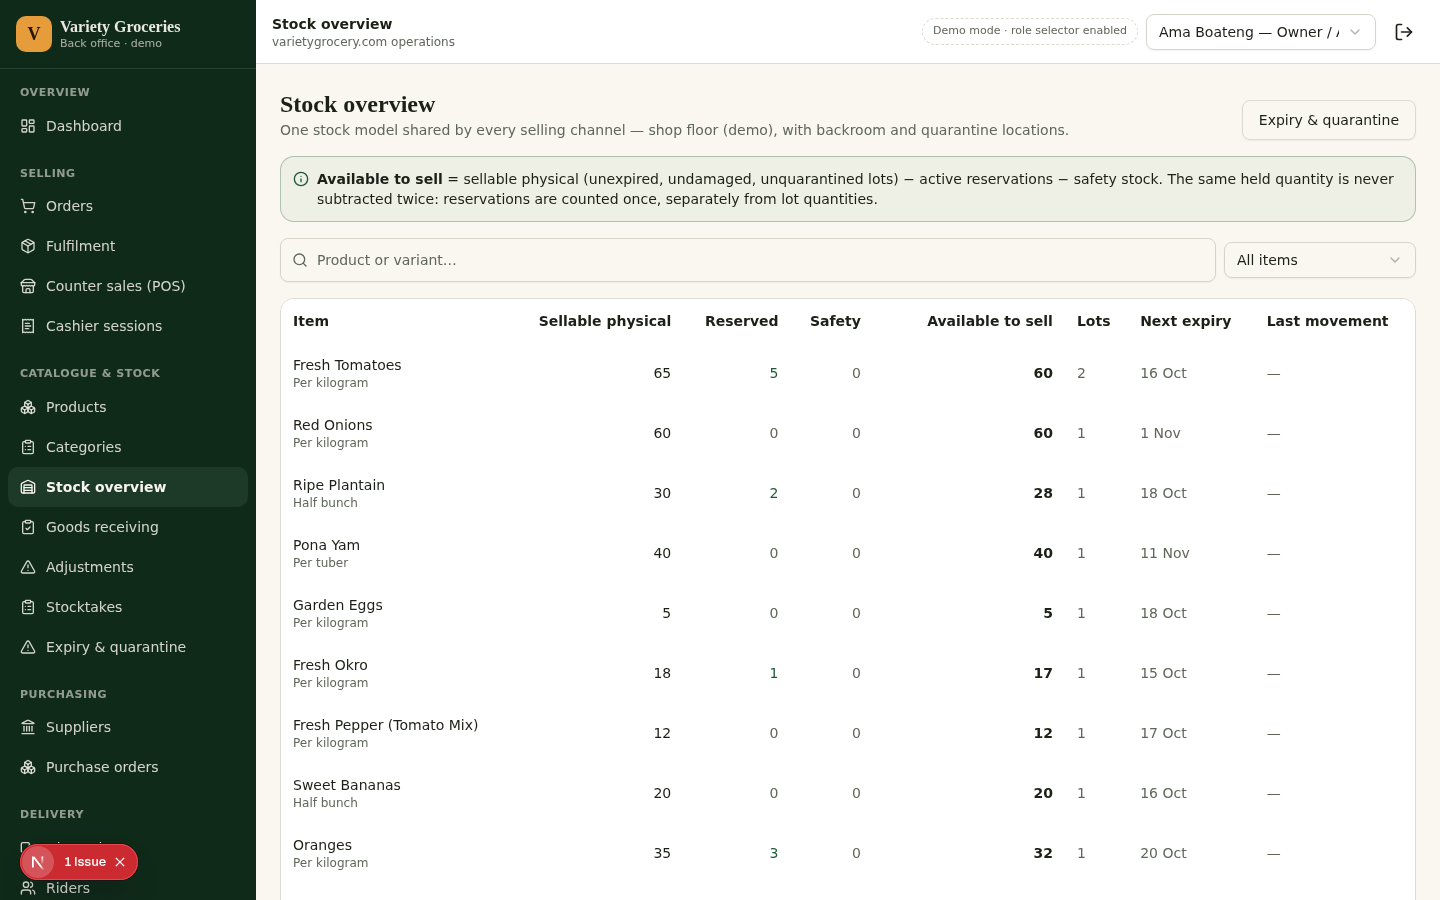
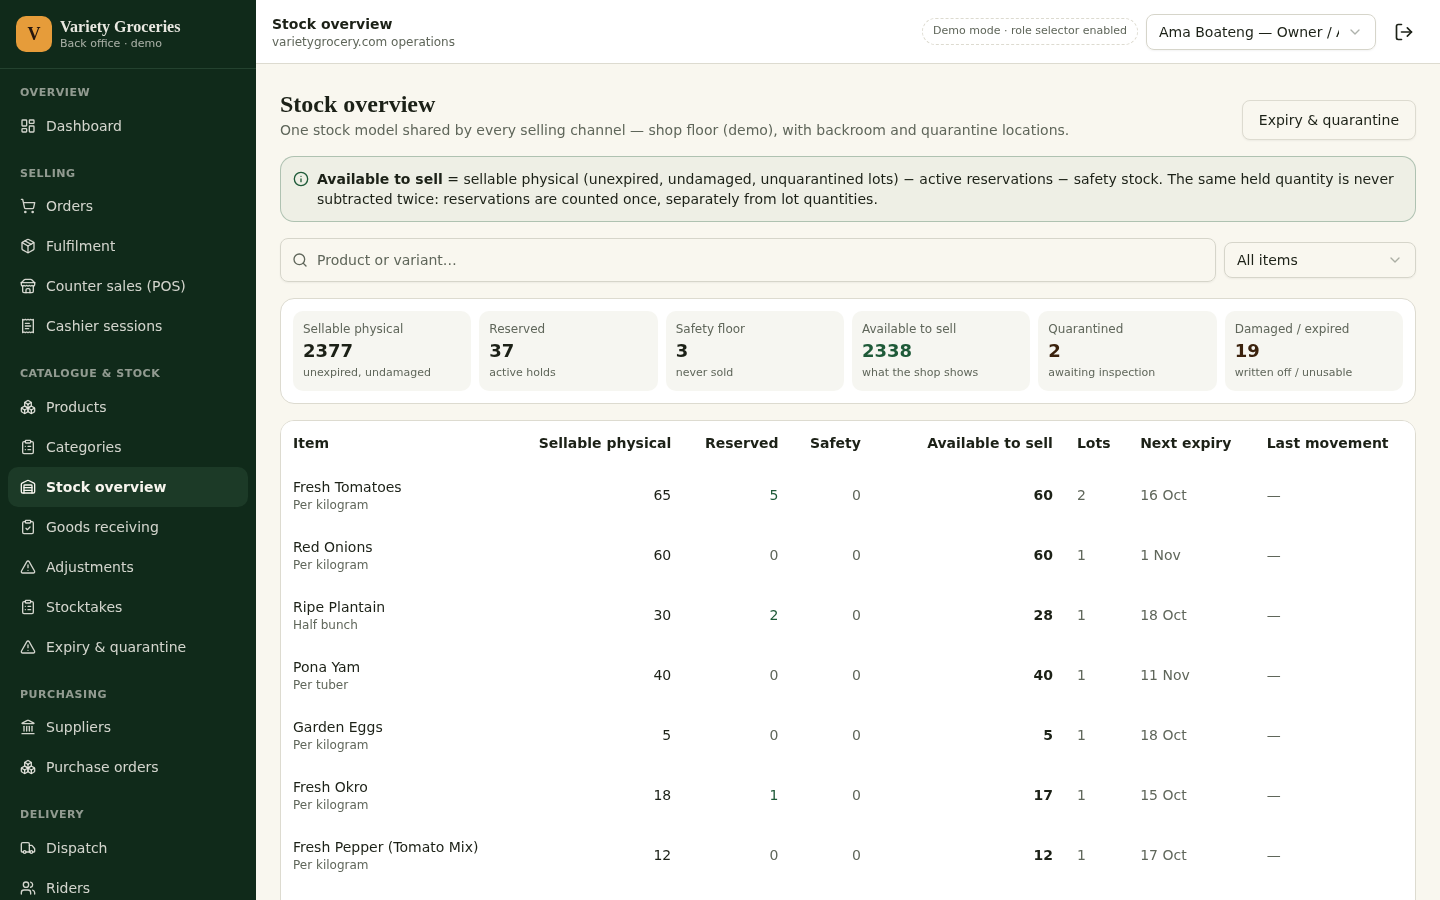
docs: ZAI frontend continuation handoff — audit, routes, verification, known issues; evidence pack (desktop/mobile/tablet) against production build

diff --git a/docs/ZAI_FRONTEND_HANDOFF.md b/docs/ZAI_FRONTEND_HANDOFF.md
@@ -1,0 +1,134 @@
+# ZAI Frontend Handoff — Continuation & Completion Wave
+
+**Wave**: frontend product quality, UX/UI, workflow completeness, responsiveness, API-readiness
+**Base**: `origin/main` @ `94d480a` (backend reservation / checkout-orders / payments / refunds authorities merged)
+**Scope rule honoured**: frontend work only — no backend business rules were changed; every mock
+engine mutation this wave is view-shaping (queue composition, card fields, summary totals), never
+a new state transition or a changed invariant.
+
+## 1. Branch
+
+`feat/zai-frontend-continuation-20261012` (pushed; PR into `main` — **not merged** by the frontend wave)
+
+## 2. Final commit SHA
+
+See `git log` on the branch — final commit is the responsive-overflow fix + documentation commit
+(`fix(responsive): checkout grid children min-w-0 …`). Run `git rev-parse HEAD` on the branch for
+the exact SHA at review time (9 wave commits total).
+
+## 3. Routes changed
+
+| Route | Change |
+|---|---|
+| `/` | Shopping-assistant entry band (compact, honest demo label) |
+| `/categories` | **NEW** browse-all index (fixes the previous 404) |
+| `/assistant` | **NEW** customer shopping assistant: catalogue-grounded Q&A with evidence + suggestions, budget basket, add-to-cart |
+| `/checkout` | 360px horizontal overflow fixed (grid children `min-w-0`) |
+| `/admin` | Queue-aligned actionable tiles (ready-to-pick / picking / refunds-to-approve added) |
+| `/admin/orders` | Mobile card list alternate (md and below) |
+| `/admin/fulfilment` | **Rebuilt as the priority workspace** — queues: awaiting-confirmation / ready-to-pick / picking / exceptions / packed-handover / collection (+ conditional ready-to-pack when the backend exposes a picked state); picker, started-at, progress, allocated-vs-ordered, shortage, substitution badges, FEFO lots with expiry, packing checklist, note dialog with line attachment, handover boundary notice (“packing has not deducted stock”), event trails, backend-driven `allowedActions` |
+| `/admin/dispatch` | **Rebuilt as a control centre** — main queue (ready-to-dispatch with slot/phone/COD, active jobs, completed) + fleet sideboard (rider availability/load/remittance, providers with honest “Not connected”); reassignment for failed/rescheduled jobs; `?order=<id>` deep link opens the assignment dialog (used by fulfilment handover) |
+| `/admin/pos` | Quick-add tiles (8 frequent items with live availability) shown while search is empty |
+| `/admin/inventory` | Stock-state summary strip (sellable / reserved / safety / available / quarantined / damaged-expired) + mobile card list |
+| `/admin/payments` | Mobile card list |
+| `/admin/ai` | Human-in-the-loop boundary notice; every suggestion card renders the explicit **Proposed next action** |
+| Admin shell (all admin routes) | Exact-match active nav — nested inventory routes light up exactly one item; top-bar title always matches the active route; sidebar short-screen padding tightened |
+
+## 4. Components added
+
+- `src/features/staff/fulfilment-views.tsx` — `PickerLineTable`, `PickingMeta`, `PackingChecklist`,
+  `QueueCardHeader`, `HandoverNotice`, `NoteDialog`, `WorkflowStrip`, `EventTrail`, `allows()`
+- `src/app/(storefront)/assistant/page.tsx` — customer assistant experience
+- `src/app/(storefront)/categories/page.tsx` — categories index
+- `scripts/responsive-sweep.mjs`, `scripts/audit-sweep.mjs` — QA tooling
+- `scripts/frontend-continuation-regressions.test.ts` — regression suite
+
+## 5. UX issues fixed
+
+1. Admin nav double-active state on nested routes + wrong top-bar title (exact-match logic).
+2. Fulfilment queue semantics mixed confirmed+picking in one queue while duplicating picking in
+   another; no exceptions/shortage queue; no picker/progress/allocated/shortage data.
+3. No handover semantics: packed orders are now explicitly “not yet handed over”, with the stock
+   boundary stated on the screen.
+4. Dispatch was tabs-in-sequence, not a control centre; no rider sideboard while working the
+   queue; no reassignment path.
+5. `/categories` 404.
+6. No customer shopping-assistant surface or homepage entry.
+7. POS empty state wasted the product area; no quick-add.
+8. Dashboard tiles didn't map 1:1 to the fulfilment queues and missed refunds-approvals.
+9. Checkout 360px horizontal overflow (grid `min-width:auto`).
+10. Dense staff tables unusable on phones (orders / inventory / payments now have card alternates).
+11. AI suggestions lacked an explicit proposed next action; boundary against auto-execution now
+    stated on the page.
+12. Sidebar dead-space padding on short screens.
+
+## 6. Tests added
+
+`scripts/frontend-continuation-regressions.test.ts` — 15 tests / 127 assertions:
+
+- fulfilment queue split (confirm/pick/picking; pack empty by design), seeded shortage order in
+  exceptions with line-level `shortageQty`, no shortage reported before picking starts
+- card contract: picker, started-at, progress, `allowedActions` mirroring the state machine, events
+- packing never consumes stock; packed order lands in the handover queue with packedBy/packedAt/slot
+- dashboard actionable: queue-aligned counts + `refundsAttention`
+- inventory summary strip totals consistent with row model; quarantined/damaged-expired present
+- AI: every suggestion (generated **and** seeded) carries `proposedAction` + evidence + period
+- assistant contract: answer/evidence/purchasable suggestions; budget basket never exceeds budget
+- dispatch queue shape; assigning an already-active job is rejected
+- categories index data quality
+
+## 7. Verification commands + exact results (all executed)
+
+| Command | Result |
+|---|---|
+| `bun run lint` | 0 errors, 0 warnings |
+| `bunx tsc --noEmit` | 0 diagnostics (strict, `ignoreBuildErrors` never reintroduced) |
+| `bun run build` | PASS — strict TypeScript; static prerender clean (`/checkout`, `/cart`, `/assistant`, `/account/returns`) |
+| `node scripts/route-sweep.mjs` (production server) | **58/58** routes HTTP 200 |
+| `bash scripts/acceptance-checks.sh` | **24/24** |
+| `bun test scripts/` | **50 tests / 460 assertions, 0 fail** (35 prior + 15 new) |
+| `node scripts/responsive-sweep.mjs` | **19 routes × 5 viewports (360/390/768/1024/1440) — 0 horizontal overflow** (found + fixed checkout at 360px) |
+| Browser DOM audit | pointer-cursor on all interactive elements; 16px body text; single active nav item on nested routes |
+| VLM visual review | fulfilment picking workspace “production-ready”; POS “solid, context-aware”; rider job “highly functional, context-aware” |
+
+## 8. Screenshot evidence
+
+`docs/qa/evidence/zai-frontend-continuation-20261012/` — `desktop/` (21), `mobile/` (16),
+`tablet/` (9), captured **against the production build** (Next.js dev-tools badge verified absent).
+Extra working-state shots: `admin-fulfilment-picking.png`, `admin-fulfilment-exceptions.png`.
+
+## 9. Remaining frontend gaps
+
+1. “Ready to pack” queue intentionally empty until the backend defines a picked state (tab renders
+   only when the service returns rows).
+2. Per-line pick confirmation (scan-by-scan) not in the mock; progress = fully-allocated lines.
+3. Mobile card alternates cover the three densest tables only; other tables rely on column hiding
+   + in-table scroll.
+4. Rider status-badge contrast borderline in direct sunlight (design pass with the real app theme).
+5. No real auth/roles yet — demo role selectors remain (backend duty).
+6. Fulfilment keyboard-flow polish (barcode-driven pick confirmation) awaits the backend
+   handover authority contract.
+7. See `docs/KNOWN_ISSUES.md` §26–31 for the complete list.
+
+## 10. Backend API dependencies still waiting for real APIs
+
+Contract extensions proposed by this wave (all **optional, backward-compatible** fields — mock
+adapter already serves them; adopt, alter, or negotiate when the fulfilment/refund authorities land):
+
+| Contract | Fields proposed |
+|---|---|
+| `FulfilmentLineCard` | `allocatedQty?`, `shortageQty?`, `isSubstitution?` |
+| `FulfilmentOrderCard` | `pickerName?`, `pickingStartedAt(Label)?`, `linesAllocated?`, `linesTotal?`, `hasExceptions?`, `packedByName?`, `packedAtLabel?`, `allowedActions?`, `events?` |
+| `FulfilmentQueues` | `picking` + `exceptions` queues; `pack` reserved for the future picked state; dispatch/collection rows gained `slotLabel/customerName/packedAtLabel/packedByName` |
+| `DashboardActionable` | `readyToPick`, `picking`, `refundsAttention` (replacing `toPick`/`toPack`) |
+| `AISuggestion` | `proposedAction?` |
+| `InventoryOverviewResponse` | `summary?` (stock-state totals) |
+
+Hard dependencies (unchanged from the master handoff): real auth/permissions, catalogue/inventory
+read API, reservation + depletion transactions, payments with server-side verification, dispatch
+provider adapters, returns/refunds ledger, then reports/AI grounding. The UI renders only what the
+service permits via `allowedActions`; nothing invents a transition or a success.
+
+**AI boundary**: `ai.assistant`, `ai.budget-basket`, `admin.ai.*` remain deterministic demo rules —
+no live model, no auto-execution of refunds/stock/price/promotions/substitutions/supplier payments;
+every suggestion carries evidence, data period and a proposed next action that requires a human.

diff --git a/docs/ROUTES.md b/docs/ROUTES.md
@@ -8,9 +8,11 @@ are client components over the same mock API.
 
 | Route | Purpose | Notes |
 |---|---|---|
-| `/` | Shop-focused homepage: categories, offers, popular picks, compact intro | No oversized hero; shopping starts on the first screen |
+| `/` | Shop-focused homepage: compact intro, shopping-assistant entry, categories, offers, popular picks | No oversized hero; shopping starts on the first screen |
 | `/shop` | Product grid with search, category filter, sorting, pagination | Only available goods; sticky filter row; state preserved in URL |
+| `/categories` | Browse-all categories index with live availability counts | Fixes the previous 404; each card links into the aisle |
 | `/categories/[slug]` | Category-specific shopping | Cross-links to sibling categories |
+| `/assistant` | Customer shopping assistant: catalogue-grounded Q&A (evidence + suggestions), budget basket | Deterministic demo matching, honestly labelled; suggestions checked against live availability before add-to-cart |
 | `/products/[slug]` | Variant selection, price, quantity, current availability | Saved link to sold-out item shows clear unavailable state, purchasing disabled |
 | `/cart` | Cart editing, availability warnings, estimated totals | Client-side cart is convenience only; availability revalidated at checkout |
 | `/checkout` | Guided checkout: contact, delivery/collection, zone+slot, Ghana address (locality, street, landmark, optional GhanaPostGPS, recipient, +233 phone), payment choice, review | Inline validation; minimum-order and slot-capacity rules |
@@ -36,7 +38,7 @@ are client components over the same mock API.
 | `/admin` | Actionable operational dashboard (queues, today's sales, reconciliation, recent orders) |
 | `/admin/orders` | Orders with channel/status/payment filters and search |
 | `/admin/orders/[id]` | Full order detail: customer, lines, allocations (FEFO), payment attempts, holds, history, notes; actions: confirm, pick, pack, ready/collect, dispatch, substitute (with permission + recalculation), cancel (guarded), review resolution |
-| `/admin/fulfilment` | Picking and packing queues with variant/unit/quantity/lot detail; confirm, dispatch and collection queues |
+| `/admin/fulfilment` | First-class fulfilment workspace: awaiting-confirmation / ready-to-pick / picking / exceptions / packed-handover / collection queues, picker + progress + allocated-vs-ordered + shortage + substitution on lines, packing checklist, handover boundary notice, event trails, backend-driven `allowedActions` | Picking and packing never deduct stock; the single depletion event happens at handover/collection |
 | `/admin/pos` | Counter sales: barcode/search, tiles, cart, discounts (permission-gated), cash/MoMo/card, change, held drafts (with expiry), receipt print, transaction lookup, return entry |
 | `/admin/cashier-sessions` | Opening float, movements, expected vs counted, close & reconcile |
 | `/admin/products` | Products, variants, prices, availability, publication |

diff --git a/docs/KNOWN_ISSUES.md b/docs/KNOWN_ISSUES.md
@@ -87,6 +87,33 @@ Both backend URLs are required together; mock routes return 404 when either sele
 24. **Return provenance/reconciliation**: all credited lots are tracked and reversals preserve history. Moved/reserved stock or incomplete legacy metadata blocks reclassification. Unknown perishable provenance must remain quarantined in production.
 25. **Browser refresh**: the shared hook listens for mutation invalidation and ignores older completions. Custom loaders still require their own refresh handling; cross-session realtime updates are not implemented.
 
+## Frontend continuation wave (2026-10-12) — remaining gaps
+
+26. **Fulfilment “Ready to pack” queue is empty by design**: the demo/mock state machine has one
+    `picking → packed` transition, so there is no separate “picked” state to feed a pack queue.
+    The contract exposes `pack: FulfilmentOrderCard[]` and the tab renders only when non-empty;
+    when the backend fulfilment authority introduces an explicit picked state, the queue will
+    populate with no frontend change. `allowedActions` already renders only actions the service
+    permits.
+27. **Per-line picked quantity is not tracked in the mock**: picking progress is reported as
+    lines-with-complete-allocations vs total lines, and shortages are the FEFO shortfall recorded
+    at pick time. A backend lot-level pick confirmation (scan-by-scan) will replace progress
+    semantics without contract breakage (`allocatedQty`/`shortageQty` stay optional).
+28. **Contract extensions proposed by this wave are frontend-authored**: optional fields on
+    `FulfilmentLineCard`/`FulfilmentOrderCard`/`DashboardActionable`/`AISuggestion`
+    (`allocatedQty`, `shortageQty`, `pickerName`, `allowedActions`, `refundsAttention`,
+    `proposedAction`, inventory `summary`, …). The mock adapter already serves them; the backend
+    team should adopt or negotiate them when the fulfilment/refund authorities land (see
+    docs/ZAI_FRONTEND_HANDOFF.md §10).
+29. **Mobile card alternates** were added for the three densest staff tables (orders, inventory,
+    payments); remaining tables rely on responsive column hiding + in-table horizontal scroll,
+    which remains acceptable for their column counts.
+30. **Rider status badge contrast** (light-green on light background) is at the edge of WCAG AA
+    in direct sunlight; flagged for the design pass when the real rider app theme lands.
+31. **Shortage seed fixture `ord_1016`** is demo data demonstrating the exceptions queue; its
+    hold quantity (1) intentionally differs from the ordered quantity (2) to reflect the
+    damage-after-ordering story. It is seeded, not user-generated.
+
 ## Execution note
 
 All planned routes and the full vertical workflow were completed within this session; no work was

diff --git a/docs/VERIFICATION.md b/docs/VERIFICATION.md
@@ -1,5 +1,31 @@
 # Verification record
 
+## Frontend continuation wave (12–13 October 2026)
+
+Branch `feat/zai-frontend-continuation-20261012`. All commands were actually executed; exact
+results below.
+
+| Check | Command | Result |
+|---|---|---|
+| ESLint | `bun run lint` | **PASS — 0 errors, 0 warnings** |
+| Type check | `bunx tsc --noEmit` | **PASS — 0 diagnostics** (strict; includes the extended `packages/contracts` fields) |
+| Production build | `bun run build` | **PASS — strict TypeScript, static prerender of all client-safe pages incl. `/checkout`, `/cart`, `/assistant`, `/account/returns`** |
+| Route sweep (production server) | `node scripts/route-sweep.mjs` | **PASS — 58/58 routes HTTP 200** (56 prior + new `/categories` index + `/assistant`) |
+| Business-rule acceptance suite | `bash scripts/acceptance-checks.sh` | **PASS — 24/24** |
+| Bun regression suites | `bun test scripts/` | **PASS — 50 tests / 460 assertions** (35 prior + 15 new frontend-continuation regressions) |
+| Responsive QA sweep | `node scripts/responsive-sweep.mjs` | **PASS — 19 key routes × 5 viewports (360/390/768/1024/1440), 0 horizontal overflow** — checkout 360px overflow found and fixed (grid `min-width:auto`) |
+| DOM interaction audit | agent-browser eval on key routes | **PASS — every interactive element pointer-cursor, body text 16px, exact active-nav matching on nested routes** |
+| Visual review | VLM review of fulfilment / POS / dispatch / rider / home screenshots | Picking workspace judged production-ready; POS two-area workspace professional; rider job page “highly functional, context-aware” |
+| Evidence | `docs/qa/evidence/zai-frontend-continuation-20261012/` | 21 desktop + 16 mobile + 9 tablet screenshots, captured against the production build (dev-tools badge verified absent) |
+
+New regression coverage in `scripts/frontend-continuation-regressions.test.ts`:
+fulfilment queue semantics (confirm/pick/picking split, pack empty until a backend picked-state,
+seeded shortage in exceptions with line-level shortage), allowedActions mirroring the state
+machine, packing-never-consumes-stock, dashboard queue-aligned tiles + refunds-attention,
+inventory summary consistency, AI proposedAction on every suggestion (generated + seeded),
+assistant evidence/purchasable-suggestions/budget-cap contract, dispatch queue shape, category
+index data.
+
 The current NestJS/PostgreSQL foundation verification is recorded in
 [BACKEND_FOUNDATION_CHECKPOINT.md](BACKEND_FOUNDATION_CHECKPOINT.md) (10 October
 2026): 40 real HTTP/database tests, isolated API-only setup/CLI checks and fresh

diff --git a/docs/HANDOFF.md b/docs/HANDOFF.md
@@ -2,6 +2,12 @@
 
 For the Variety Groceries engineering team taking over from this frontend prototype.
 
+> **Frontend continuation wave (12–13 Oct 2026)**: the UX/UI, workflow-completeness and
+> API-readiness wave is documented separately in
+> [ZAI_FRONTEND_HANDOFF.md](ZAI_FRONTEND_HANDOFF.md) (branch, SHA, routes changed, tests,
+> evidence, remaining gaps, and the optional contract extensions it proposes for the fulfilment
+> authority). The backend connect order below is unchanged.
+
 ## 1. Read order
 
 1. `README.md` — run the prototype, feel the workflows.
